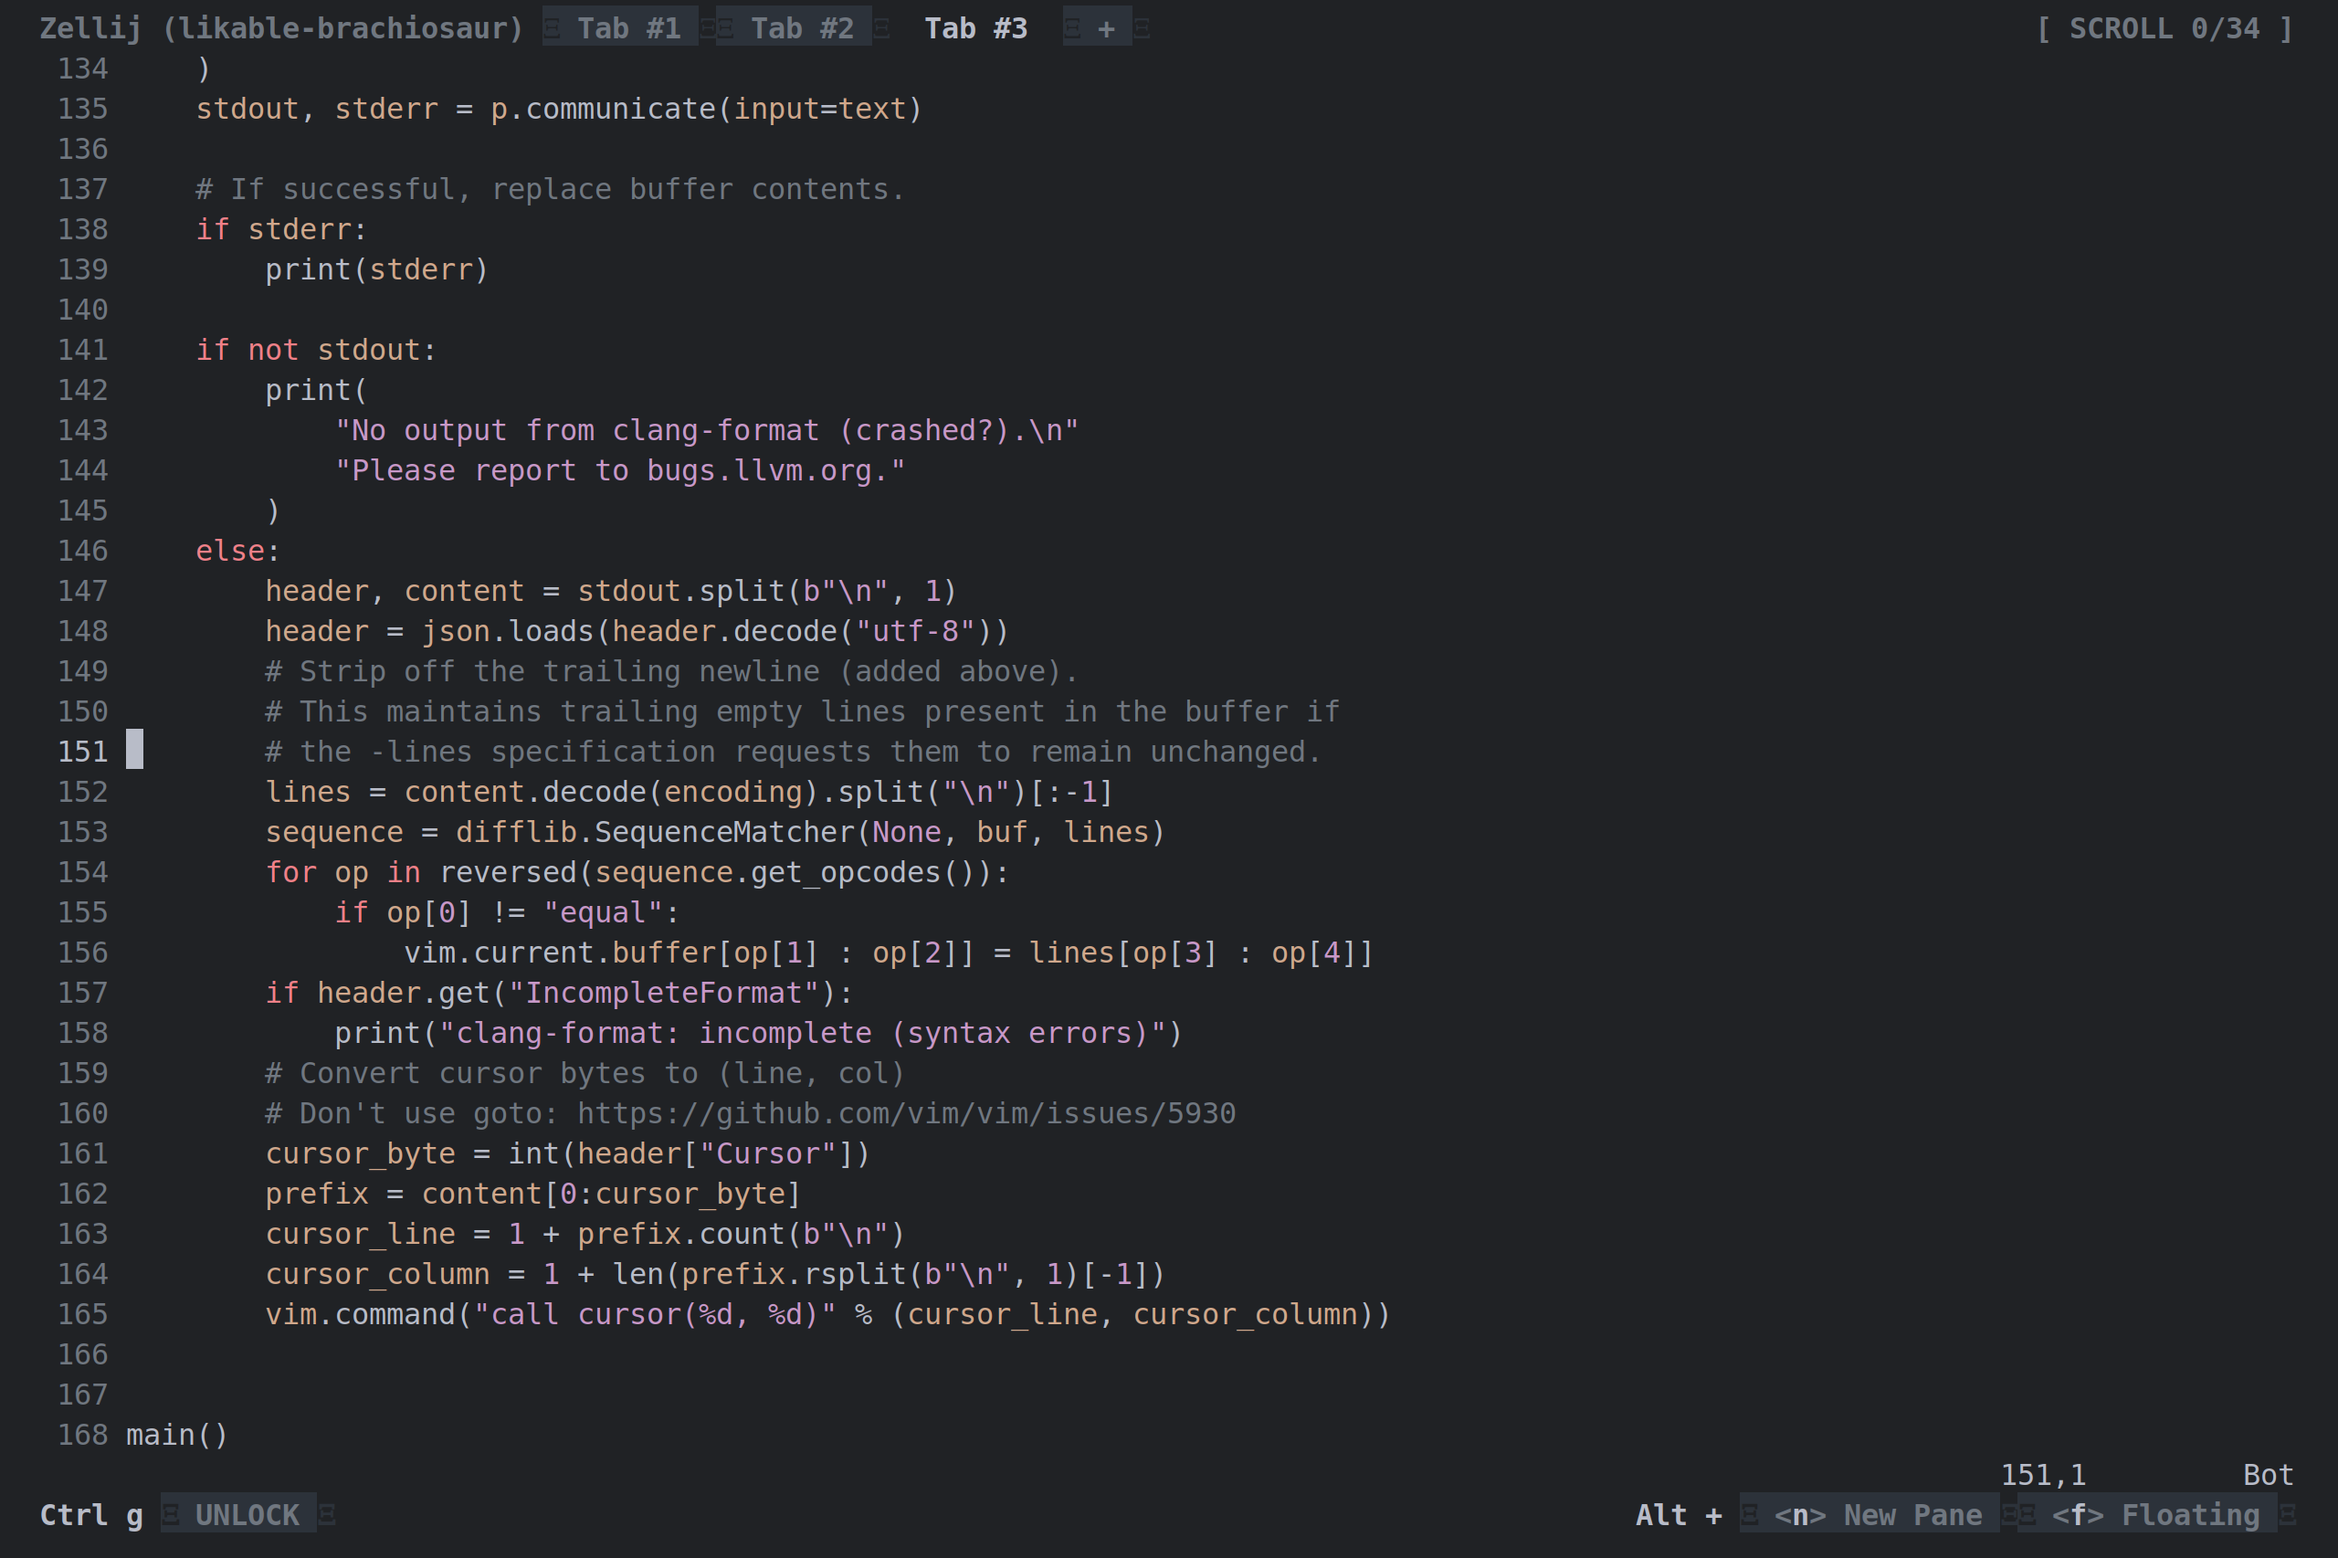
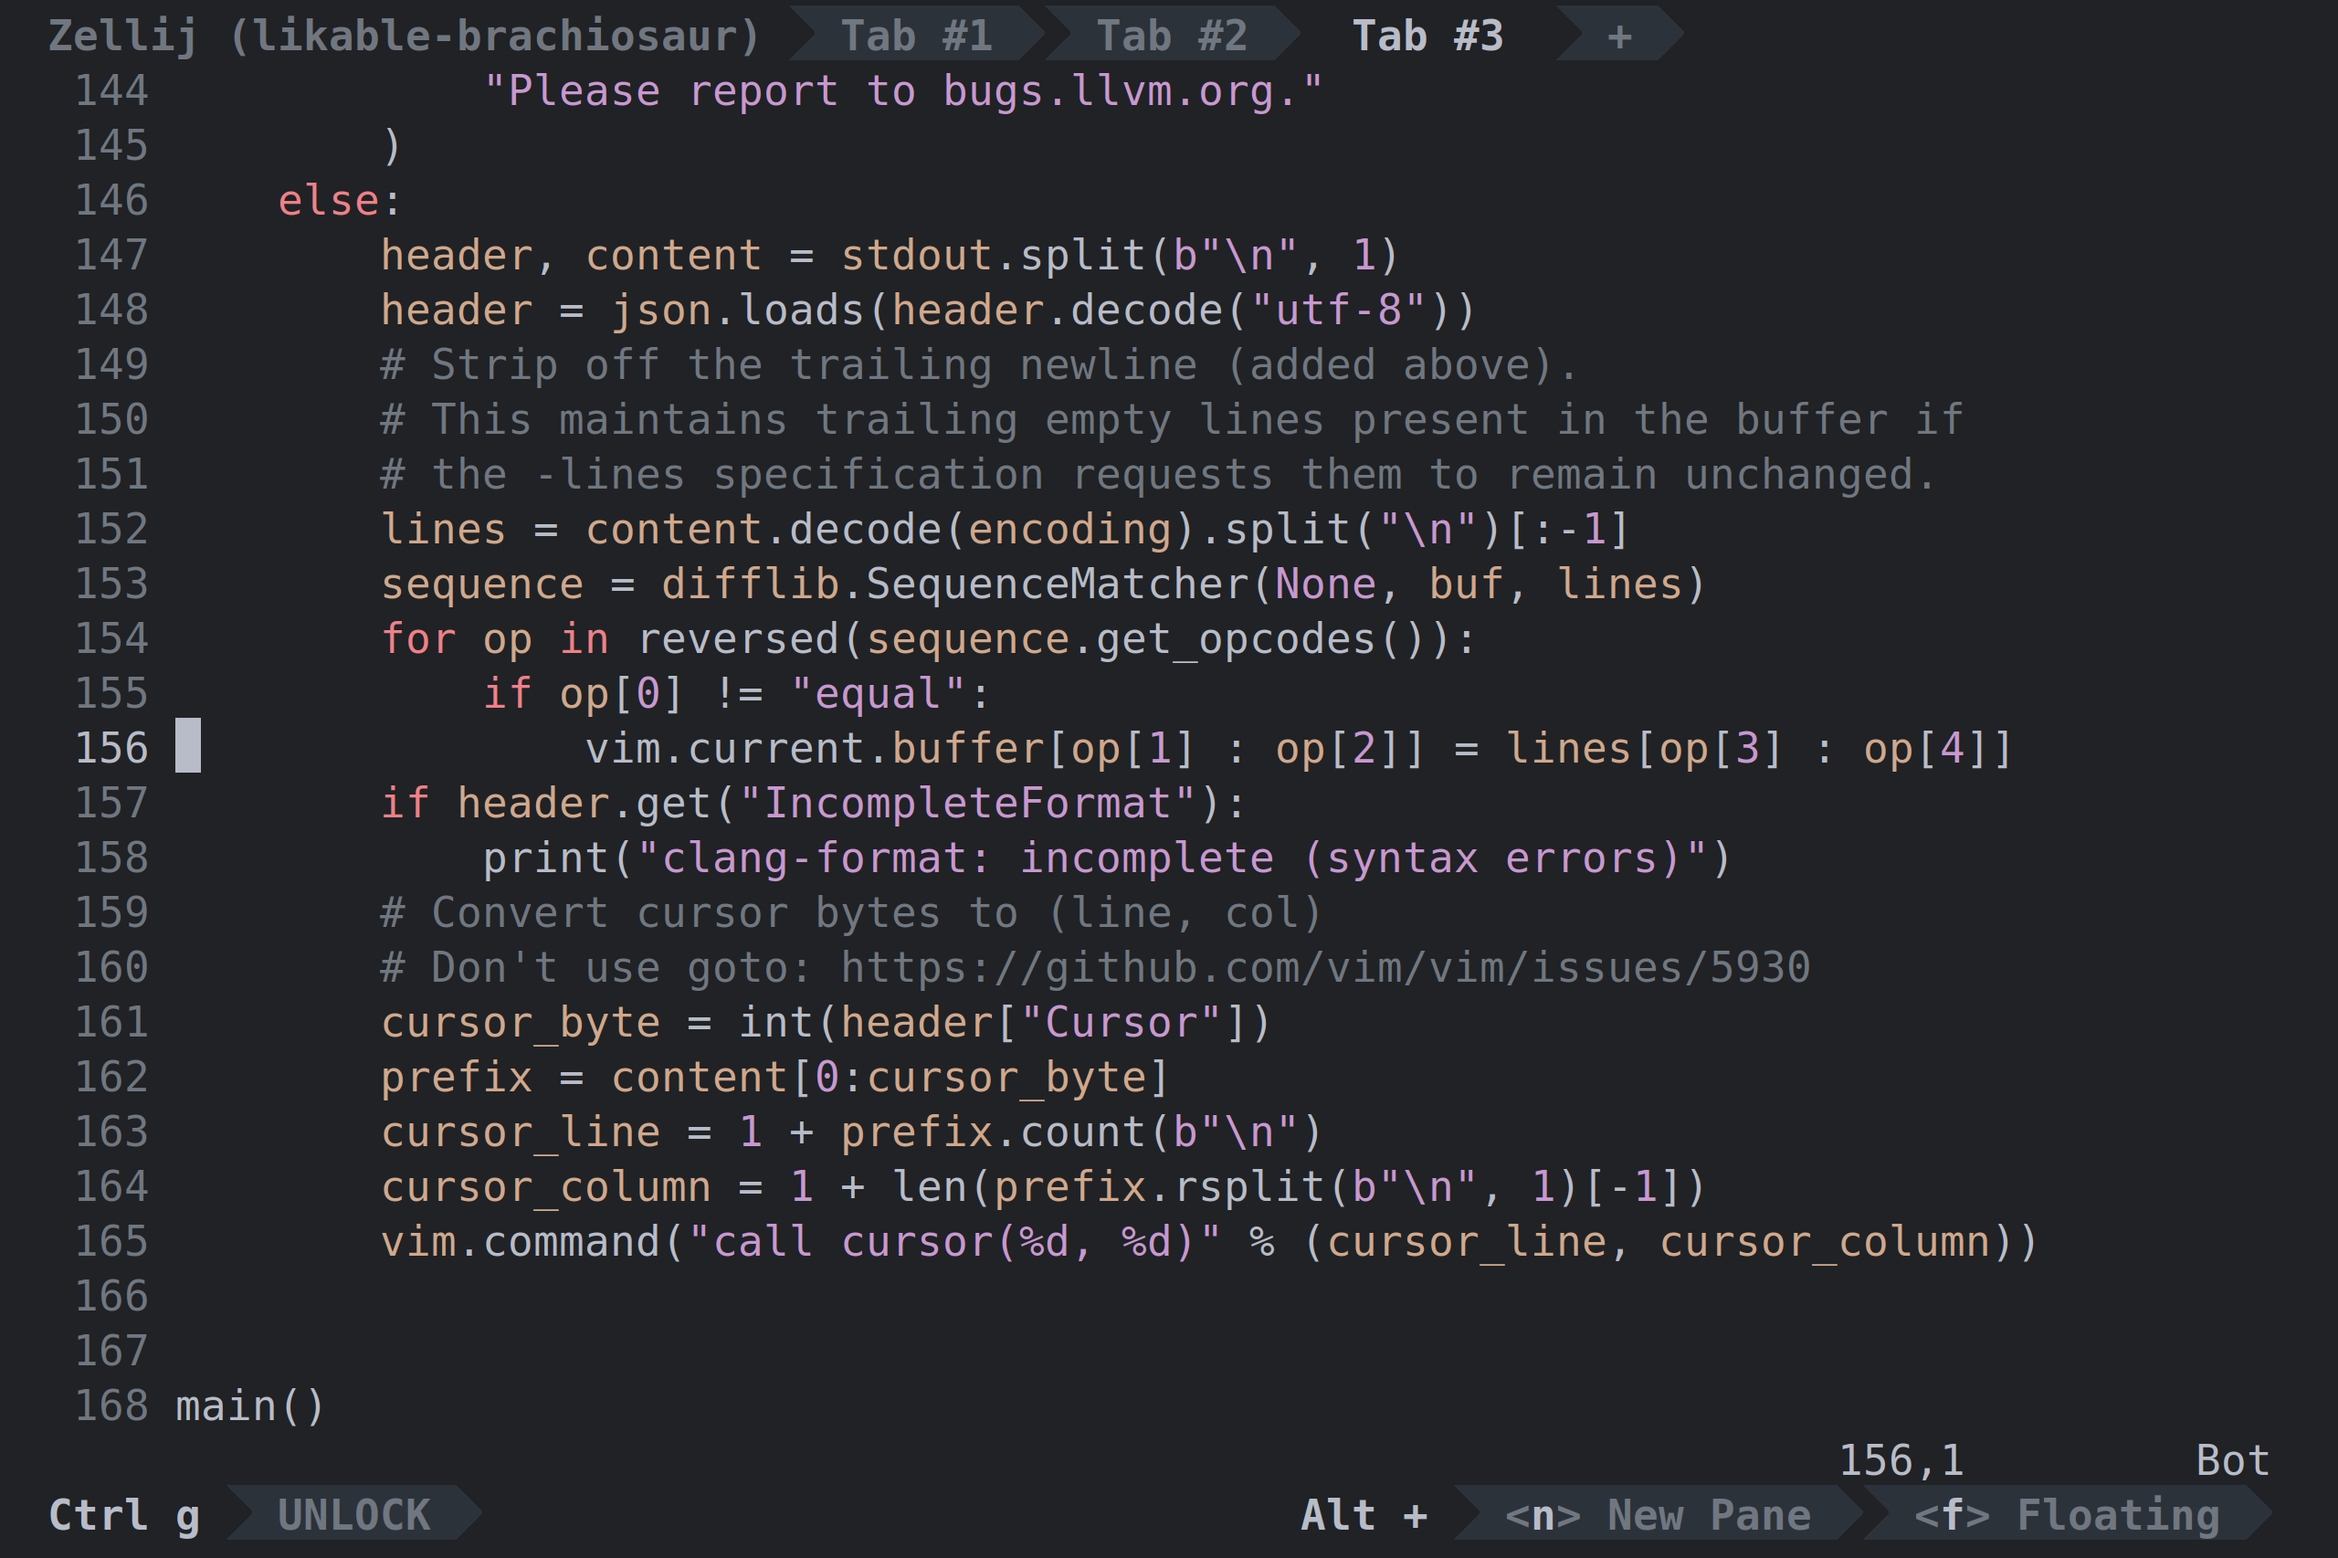
fire fire

diff --git a/readme.md b/readme.md
@@ -7,4 +7,5 @@
 
 ## fire
 ![fire-rust](pics/fire-rust.png)
+![fire-rust-2](pics/fire-rust-2.png)
 ![fire-python](pics/fire-python.png)
